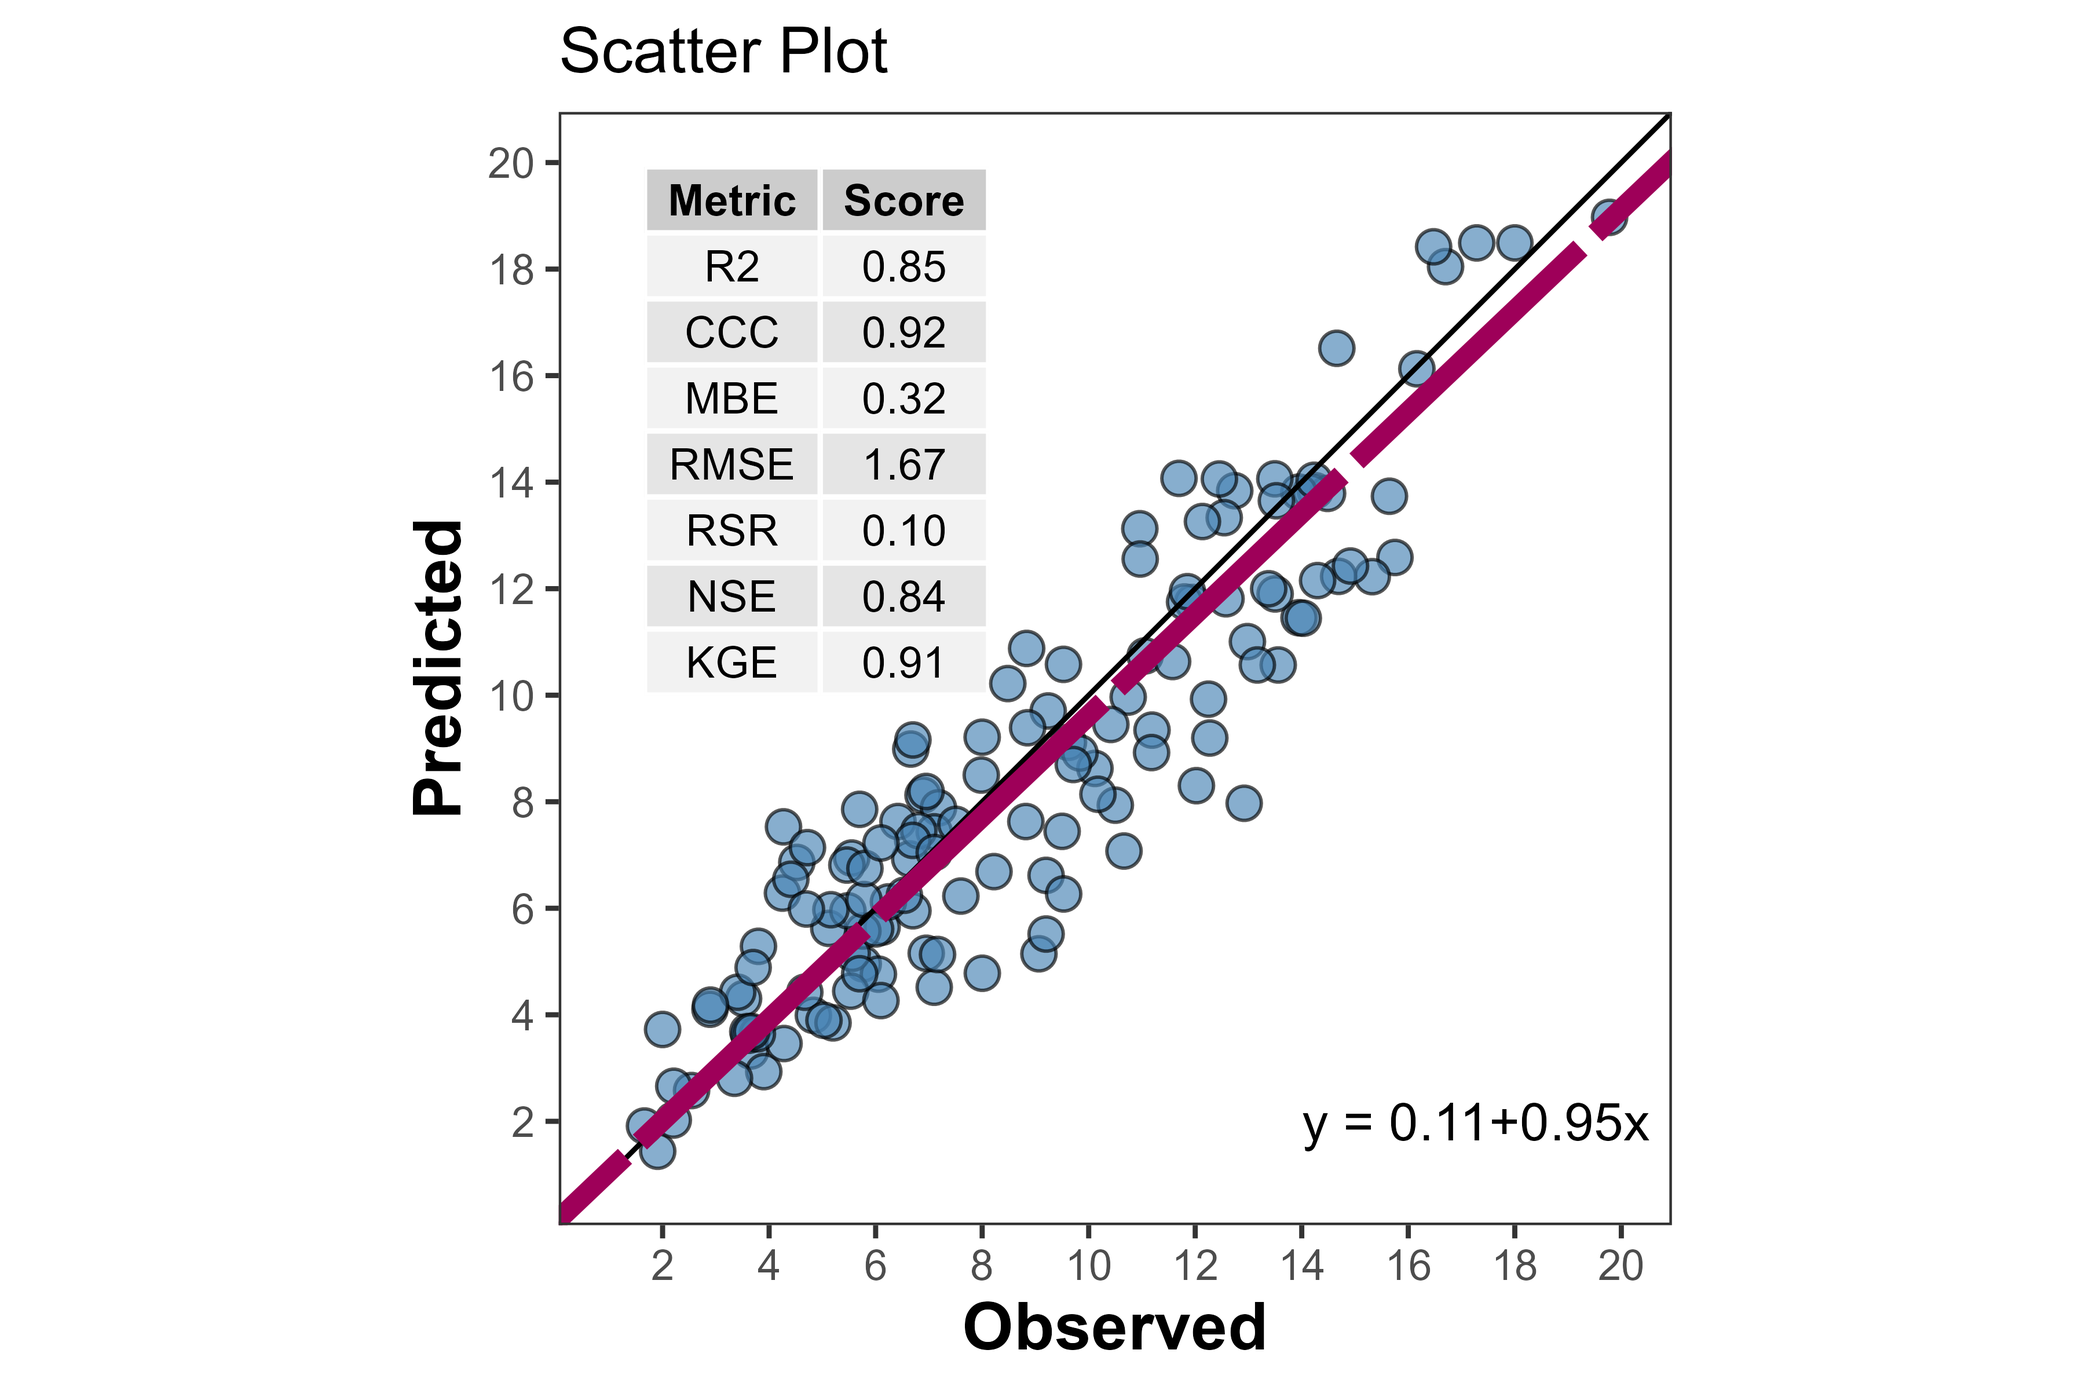
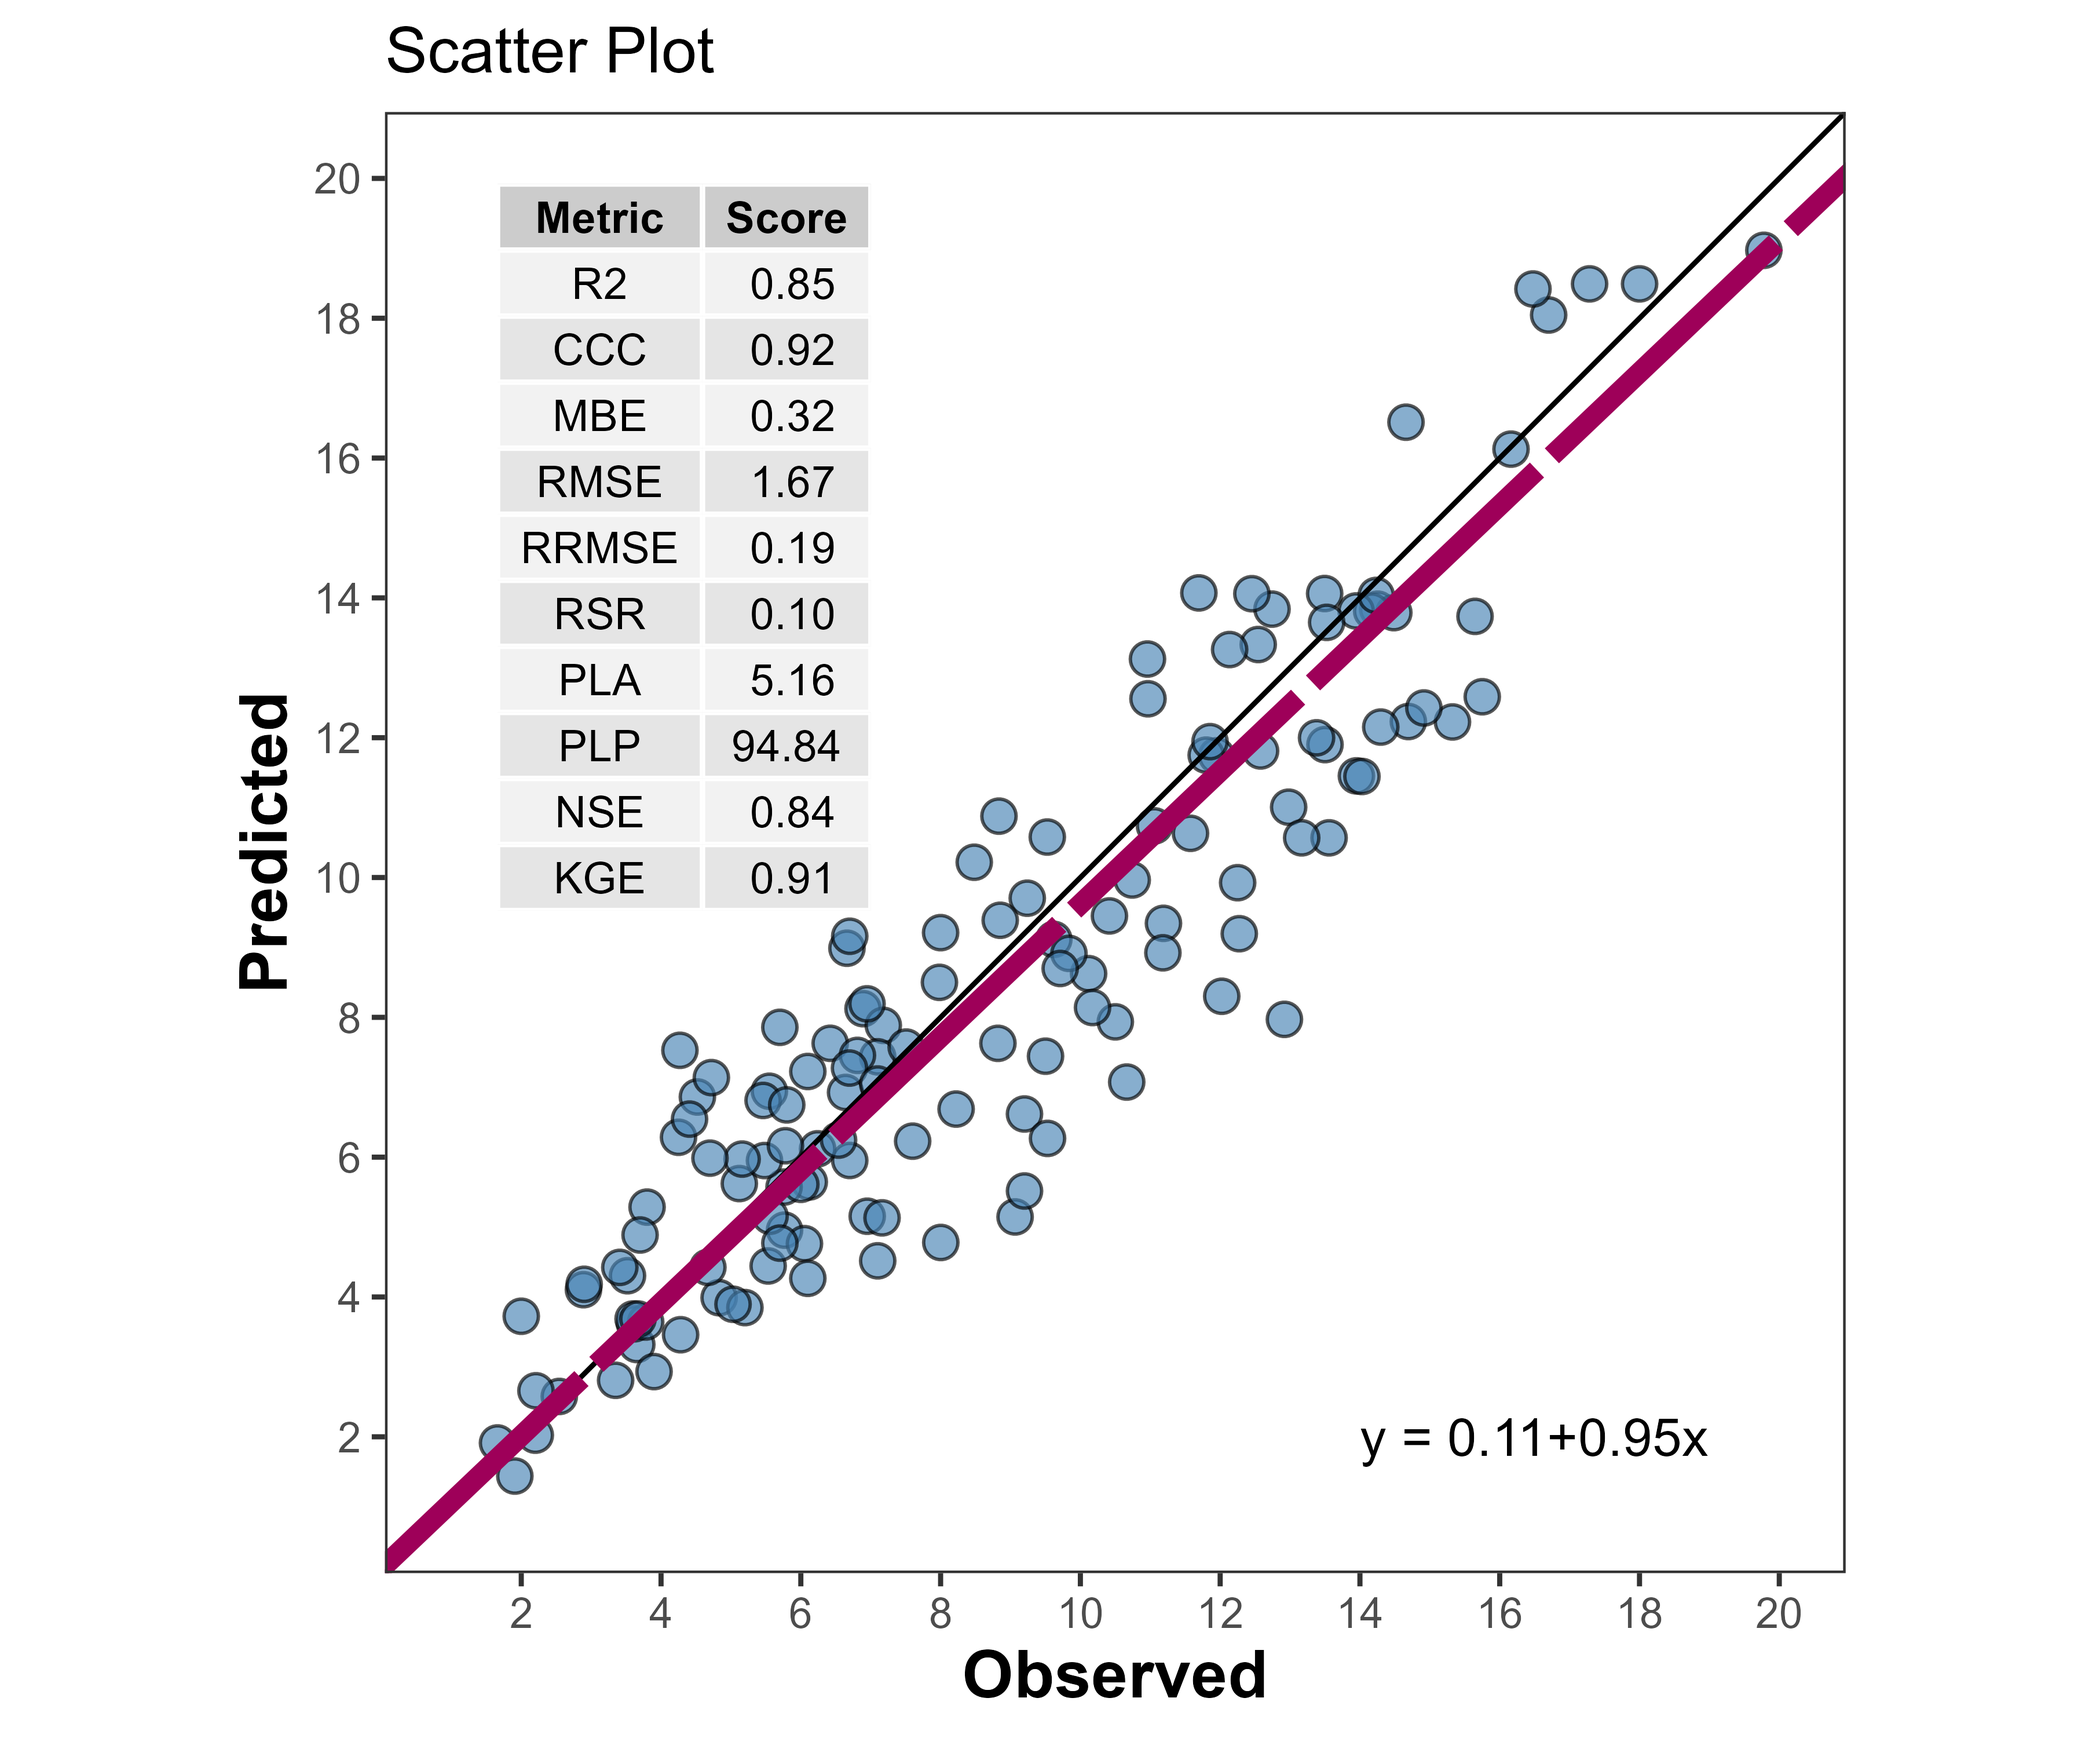
figures update

diff --git a/paper.md b/paper.md
@@ -134,16 +134,17 @@ metrics_summary(data = data_wheat,
                 type = "regression",
                 metrics_list = my_reg_metrics)
 
-#>         Metric          Score
-#> 1           R2     0.84555376
-#> 2          CCC     0.91553253
-#> 3          MBE     0.31815953
-#> 4         RMSE     1.66644142
-#> 5          RSR     0.09678632
-#> 6          PLP     5.15949064
-#> 7          PLA    94.84050936
-#> 8          NSE     0.83871126
-#> 9          KGE     0.91064709
+#>      Metric          Score
+#> 1        R2     0.84555376
+#> 2       CCC     0.91553253
+#> 3       MBE     0.31815953
+#> 4      RMSE     1.66644142
+#> 5     RRMSE     0.19094834
+#> 6       RSR     0.09678632
+#> 7       PLP     5.15949064
+#> 8       PLA    94.84050936
+#> 9       NSE     0.83871126
+#> 10      KGE     0.91064709
 
 ```
 
